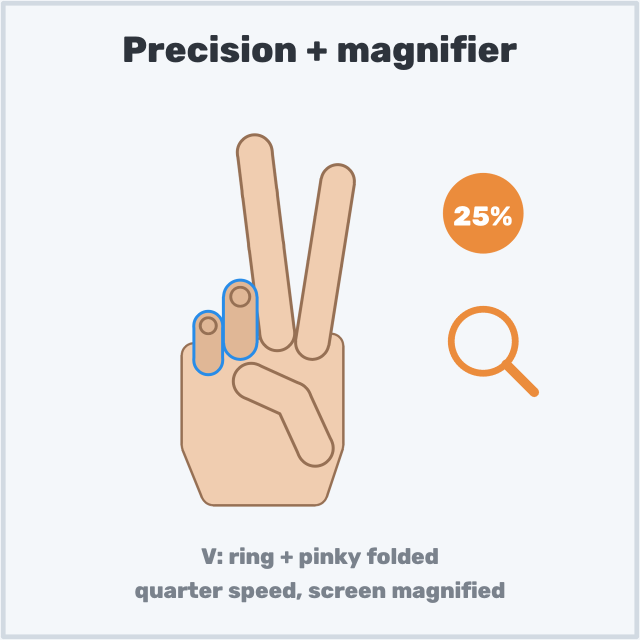
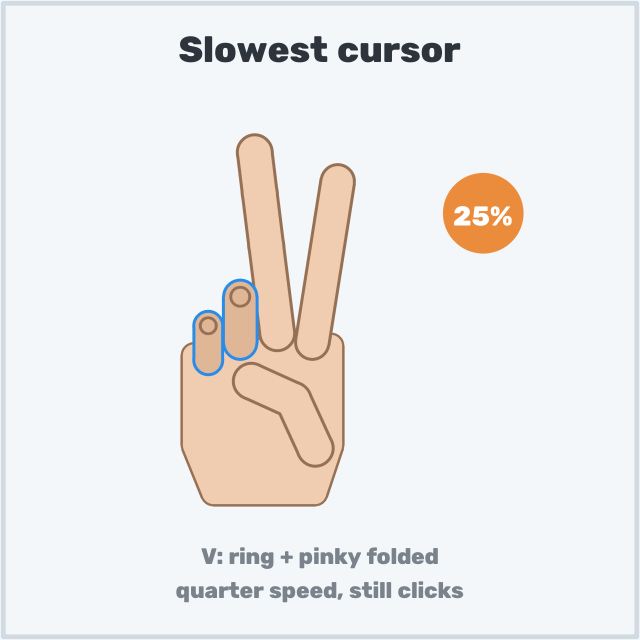
docs: the magnifier with the other hand
A picture of the other hand's V next to the pointing hand, the precision
picture without the magnifier, and the gesture tables, what's new, notes,
options and troubleshooting rows to match.

diff --git a/docs/make_gesture_images.py b/docs/make_gesture_images.py
@@ -489,9 +489,23 @@ def build() -> dict[str, Any]:
         h.active |= {"ring", "pinky"}
         h.draw(c)
         badge(c, "25%", (1.35, 1.75))
-        lens(c, (1.35, 0.95))
+        caption(c, "Slowest cursor", "V: ring + pinky folded", "quarter speed, still clicks")
+        return c
+
+    def magnifier() -> Canvas:
+        c = Canvas(0.16, (0.0, 0.0))
+        left = Hand().up("index", 9).up("middle", -7).curl("ring").curl("pinky").thumb_tuck()
+        left.active |= {"index", "middle"}
+        left.mirror, left.shift = True, (-1.15, 0.0)
+        right = open_hand()
+        right.shift = (0.75, 0.0)
+        for h in (left, right):
+            h.draw(c)
+        lens(c, (-1.15, 2.45))
+        arrow(c, (0.95, 2.3), (1.75, 2.3))
+        arrow(c, (0.95, 2.3), (0.15, 2.3))
         caption(
-            c, "Precision + magnifier", "V: ring + pinky folded", "quarter speed, screen magnified"
+            c, "Magnifier", "other hand: V = magnifier on", "this hand moves and clicks as usual"
         )
         return c
 
@@ -512,6 +526,7 @@ def build() -> dict[str, Any]:
     pics.update(
         hand_slower=slower,
         hand_precision=precision,
+        hand_magnifier=magnifier,
         hand_two_zoom=two_hands,
         hand_move=move,
         hand_left_button=left_button,

diff --git a/README.md b/README.md
@@ -39,8 +39,10 @@ problem found while measuring.
   far on a big screen) turned into a drag or a selection.
 - **Precise pointing:** fold the pinky and the cursor moves at half speed; make a V (index +
   middle out) and it moves at a quarter of the speed. Clicking does not change the speed.
-- **Magnifier:** at quarter speed the system's screen magnifier comes on, so small targets are
-  easy to hit; open the hand and it goes off.
+- **Magnifier with the other hand:** show a V with the hand that does not move the cursor (the
+  left one for most people) and the system's screen magnifier comes on; drop the V and it
+  goes off. The cursor hand keeps moving and clicking at full speed meanwhile. (It used to be
+  the V of the cursor hand, which also slowed the cursor down.)
 - **Zoom with two hands:** pinch both hands and pull them apart or together, in the hand mouse
   and in `--slides`. A second hand that does not pinch changes nothing.
 - **Clicks that are not missed:** a pinch works with the other fingers relaxed (before, one of
@@ -72,7 +74,8 @@ problem found while measuring.
 | Hand mouse | horns (index + pinky), move up / down | zoom in / out |
 | Hand mouse, `--slides` | both hands pinched, pull apart / together | zoom in / out |
 | Hand mouse | pinky folded | cursor at 50% |
-| Hand mouse | V or index + middle together (ring + pinky folded) | cursor at 25% + magnifier |
+| Hand mouse | V or index + middle together (ring + pinky folded) | cursor at 25% |
+| Hand mouse | **other hand** shows a V | magnifier on, while this hand moves and clicks |
 | Hand mouse | open hand flicked sideways and back | previous / next slide |
 | Hand mouse | fist | pause (clutch) |
 | Hand mouse | shaka held 0.6 s | mouse ↔ media mode |
@@ -156,7 +159,8 @@ released.
 <tr><td align="center"><img src="docs/gestures/hand_move.png" width="210" alt="Move the cursor: open hand"></td><td align="center"><img src="docs/gestures/hand_left_button.png" width="210" alt="Left button: thumb and index touching"></td><td align="center"><img src="docs/gestures/hand_drag.png" width="210" alt="Drag: keep touching and move"></td></tr>
 <tr><td align="center"><img src="docs/gestures/hand_double_click.png" width="210" alt="Double click: pinch twice"></td><td align="center"><img src="docs/gestures/hand_right_click.png" width="210" alt="Right click: thumb and middle finger touching"></td><td align="center"><img src="docs/gestures/hand_scroll.png" width="210" alt="Scroll: the whole hand turned sideways, move up or down"></td></tr>
 <tr><td align="center"><img src="docs/gestures/hand_zoom.png" width="210" alt="Zoom: horns, move up or down"></td><td align="center"><img src="docs/gestures/hand_clutch.png" width="210" alt="Pause: fist"></td><td align="center"><img src="docs/gestures/hand_flick.png" width="210" alt="Flick sideways and back: previous or next slide"></td></tr>
-<tr><td align="center"><img src="docs/gestures/hand_slower.png" width="210" alt="Slower cursor: fold the pinky"></td><td align="center"><img src="docs/gestures/hand_precision.png" width="210" alt="Precision and magnifier: V sign"></td><td align="center"><img src="docs/gestures/hand_two_zoom.png" width="210" alt="Zoom with two hands: pinch both and pull apart"></td></tr>
+<tr><td align="center"><img src="docs/gestures/hand_slower.png" width="210" alt="Slower cursor: fold the pinky"></td><td align="center"><img src="docs/gestures/hand_precision.png" width="210" alt="Slowest cursor: V sign"></td><td align="center"><img src="docs/gestures/hand_two_zoom.png" width="210" alt="Zoom with two hands: pinch both and pull apart"></td></tr>
+<tr><td align="center"><img src="docs/gestures/hand_magnifier.png" width="210" alt="Magnifier: the other hand shows a V, this hand moves and clicks"></td></tr>
 </table>
 
 | Action | Gesture | Notes |
@@ -172,7 +176,8 @@ released.
 | Zoom | "horns": **index + pinky** up, middle + ring curled; then move the hand **up** (zoom in) or **down** (zoom out) | Ctrl + wheel, one step per ~2 cm of travel, one step per frame at most; the thumb is free |
 | Zoom with two hands | **pinch both hands**, then pull them **apart** (zoom in) or **together** (zoom out) | like two fingers on a touchpad; one step per 12% change of the distance; while the other hand pinches, the cursor holds still and nothing clicks |
 | Slower cursor | **fold the pinky** (index, middle, ring out) | half speed: for small targets |
-| Precision + magnifier | **V**: index + middle out (apart or together), ring + pinky folded | quarter speed, and the system magnifier comes on; open the hand again and it goes off |
+| Slowest cursor | **V**: index + middle out (apart or together), ring + pinky folded | quarter speed; clicking works as usual |
+| Magnifier | **the other hand** (the one that does not move the cursor) shows a **V** | the system magnifier is on while the V is held; this hand keeps moving and clicking at full speed |
 | Clutch | **fist** | `absolute`: pauses output; `--relative`: "lifts the mouse" |
 
 - **The left button is held like a real one.** It goes down the moment thumb and index meet and
@@ -182,13 +187,19 @@ released.
   clicks. When the thumb is about as close to the middle finger as to the index, it is a left
   click; a right click needs the middle finger clearly closest.
 - **Precision and clicking go together.** The speed counts only the middle, ring and pinky
-  fingers, so a pinch never changes it: make a V, aim at quarter speed with the screen
-  magnified, pinch thumb + index, done. Back at full speed the cursor does not jump: it catches
-  up with the hand while the hand moves.
+  fingers, so a pinch never changes it: make a V, aim at quarter speed, pinch thumb + index,
+  done. Back at full speed the cursor does not jump: it catches up with the hand while the
+  hand moves.
+- **Magnifier and pointing go together.** Hold a V with the other hand: the screen is
+  magnified and this hand points and clicks normally, at full speed or slowed down as you like.
+  The V must be seen for 4 frames to turn the magnifier on and be gone for 8 to turn it off,
+  so a lost frame never flashes it. Which hand is "the other" is simply the one that does not
+  drive the cursor: for most people the left.
 - **The magnifier is the system's own:** Windows Magnifier (`Win` + `+`, closed with
   `Win` + `Esc`), macOS Zoom (`Option` + `Cmd` + `8`, turn on "Use keyboard shortcuts to zoom" in
   Accessibility → Zoom first), GNOME (`Super` + `Alt` + `8`). It follows the cursor and goes off
-  when the program ends. `GestureConfig.magnifier = False` keeps it off.
+  when the program ends, or when both hands leave the view. `GestureConfig.magnifier = False`
+  keeps it off.
 - **Two hands:** the second hand counts only while it pinches. Resting in view, on the desk or
   on the forehead, it changes nothing: the cursor moves and clicks as usual (a pinch of the
   cursor hand then waits 4 frames, so that pinching both hands at once never clicks first). A
@@ -411,7 +422,7 @@ Quick head movements press the arrow keys: slides, photo viewers, video players,
 | `--probe-camera` | measure which modes the camera really delivers, suggest the best, exit |
 | `--camera-test` | show only the camera picture in the preview window (no tracking, no input): the first thing to try when the preview shows nothing |
 | `--camera-settings` | Windows: open the camera driver's settings (exposure, low-light compensation) |
-| `--no-two-hands` | track one hand only: no two-hand zoom, the tracker is about twice as fast |
+| `--no-two-hands` | track one hand only: no two-hand zoom and no magnifier (both use the other hand), the tracker is about twice as fast |
 | `--no-hud` | no preview window (less CPU) |
 | `--screen WxH` | manual screen size when auto-detection fails |
 | `--model PATH`, `--no-mirror`, `--no-hotkeys`, `--log-level` | as the names say |
@@ -451,7 +462,7 @@ parameters are in `config.py`.
 | **Hand mouse:** pinches do not register | keep another finger out (OK sign); check "pinch I" in the HUD while touching, then `GestureConfig.pinch_enter` ↑ (e.g. 0.32) |
 | **Hand mouse:** the horns do not zoom | fold middle + ring further, or zoom with two hands; `horns_relaxed` (on) accepts half-folded fingers |
 | **Hand mouse:** the cursor slows down on its own | a finger is half folded: open the hand fully; `precision_speeds = (1.0, 1.0, 1.0)` turns precision off |
-| **Hand mouse:** the magnifier does not come on | macOS: enable the Zoom keyboard shortcuts; Linux: GNOME only; or `magnifier = False` |
+| **Hand mouse:** the magnifier does not come on | is the other hand in view, with a clear V (ring + pinky folded)? The preview draws it in magenta. macOS: enable the Zoom keyboard shortcuts; Linux: GNOME only; not with `--no-two-hands` |
 | **Hand mouse / slides:** low FPS in the HUD (`FPS`, not `cam`) | `--no-two-hands` (looking for a second hand costs about as much as the tracking itself) |
 | **Hand mouse:** the button lets go while dragging | `pinch_exit` ↑ (e.g. 0.42), `pinch_release_frames` ↑, `drag_lost_grace` ↑ |
 | **Hand mouse:** the button does not let go | open the fingers further, or `pinch_exit` ↓ (above `pinch_enter`) |
@@ -504,8 +515,9 @@ parameters are in `config.py`.
     magnified (`TrackerConfig.zoom_crop`). On real hand photos at several sizes that found a
     hand in 48% more frames.
   - A far hand near the frame edge can still be missed.
-- **Hands:** one hand drives the cursor; a second one is only for the two-hand zoom, and
-  only while it pinches. When the hands cross, the tracker may swap them.
+- **Hands:** one hand drives the cursor; the other one only zooms (while it pinches) and turns
+  the magnifier on (while it shows a V). When the hands cross, the tracker may swap them: the
+  cursor then follows the hand nearest to where it was.
 - **Face:** `--eyes` and `--head` track one face, which must be reasonably large in the frame:
   sit within about 1 m.
 - **Magnifier:** it is the system's, through its keyboard shortcut. If that shortcut is changed
